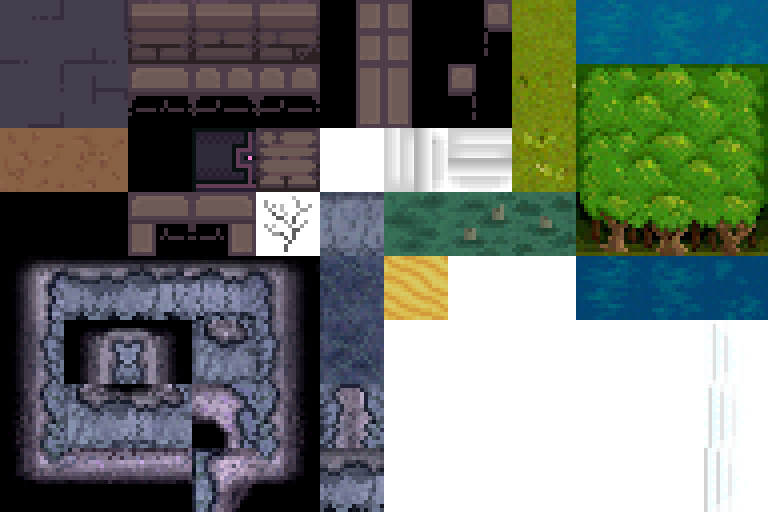
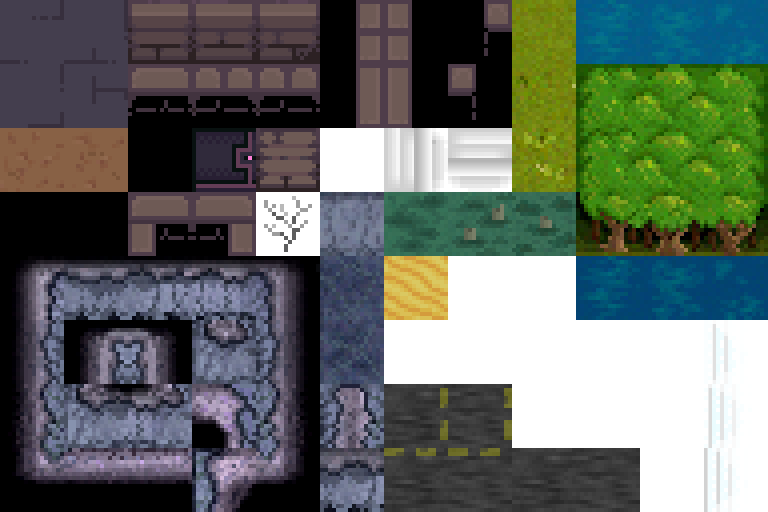
more terrain stuff

Changed region(s): [[0.5, 0.75, 0.8438, 1.0]]

diff --git a/src/main/kotlin/world/gen/biomes/Biome.kt b/src/main/kotlin/world/gen/biomes/Biome.kt
@@ -6,6 +6,7 @@ import things.*
 import util.Dice
 import util.Perlin
 import util.Rect
+import world.gen.NoisePatches
 import world.gen.cartos.WorldCarto
 import world.terrains.Terrain
 import world.terrains.Terrain.Type.*
@@ -20,7 +21,7 @@ sealed class Biome(
     open fun terrainAt(x: Int, y: Int): Terrain.Type = baseTerrain
     open fun postBlendProcess(carto: WorldCarto, dir: Rect) { }
 
-    open fun addPlant(fertility: Float, addThing: (Thing)->Unit, addTerrain: (Terrain.Type)->Unit) { }
+    open fun addPlant(fertility: Float, variance: Float, addThing: (Thing)->Unit, addTerrain: (Terrain.Type)->Unit) { }
 }
 
 @Serializable
@@ -52,11 +53,15 @@ object Plain : Biome(
     Glyph.MAP_PLAIN,
     TERRAIN_GRASS
 ) {
-    val forestMin = 0.7f
+    val forestMin = 0.97f
+    val grassMin = 0f
 
-    override fun addPlant(fertility: Float, addThing: (Thing) -> Unit, addTerrain: (Terrain.Type) -> Unit) {
-        if (fertility > forestMin) {
+    override fun addPlant(fertility: Float, variance: Float,
+                          addThing: (Thing) -> Unit, addTerrain: (Terrain.Type) -> Unit) {
+        if (fertility > forestMin + (variance * 0.03f)) {
             addTerrain(Terrain.Type.TERRAIN_FORESTWALL)
+        } else if (fertility < grassMin + (variance * 0.003f)) {
+            if (Dice.chance(1f - fertility * 800f)) addTerrain(Terrain.Type.TERRAIN_DIRT)
         } else {
             if (Dice.chance(fertility * 0.3f)) {
                 val type = fertility + Dice.float(-0.3f, 0.3f)
@@ -78,17 +83,32 @@ object Forest : Biome(
     Glyph.MAP_FOREST,
     TERRAIN_GRASS
 ) {
+    val forestMin = 0.7f
+    val treeChance = 0.05f
+
     override fun terrainAt(x: Int, y: Int): Terrain.Type {
-        val offset = 0.0
-        val scale = 0.02
-        val fullness = 0.002
-        val n2 = Perlin.noise(x * 0.02, y * 0.03, 8.12) + Perlin.noise(x * 0.041, y * 0.018, 11.17) * 0.8
-        if (n2 > 0.02) return TERRAIN_FORESTWALL
-        val n = Perlin.noise((x.toDouble() + offset) * scale, y.toDouble() * scale, 59.0) + Perlin.noise((x.toDouble() + offset) * scale * 0.4, y.toDouble() * scale * 0.4, 114.0) * 0.7
-        if (n > fullness * scale - Dice.float(0f, 0.18f).toDouble()) {
-            return TERRAIN_GRASS
+        if (NoisePatches.get("extraForest", x, y) > 0.2f) {
+            return Terrain.Type.TERRAIN_FORESTWALL
         }
-        return TERRAIN_DIRT
+        return super.terrainAt(x, y)
+    }
+
+    override fun addPlant(fertility: Float, variance: Float,
+                          addThing: (Thing) -> Unit, addTerrain: (Terrain.Type) -> Unit) {
+        if (fertility > forestMin) {
+            addTerrain(Terrain.Type.TERRAIN_FORESTWALL)
+        } else if (Dice.chance(treeChance)) {
+            addThing(OakTree())
+        } else {
+            if (Dice.chance(fertility * 1f)) {
+                val type = fertility + Dice.float(-0.3f, 0.3f)
+                addThing(
+                    if (type > 0.5f) OakTree()
+                    else if (type > 0.2f) Bush()
+                    else  Bush2()
+                )
+            }
+        }
     }
 
     override fun postBlendProcess(carto: WorldCarto, bounds: Rect) {
@@ -111,7 +131,26 @@ object Mountain : Biome(
     Glyph.MAP_MOUNTAIN,
     TERRAIN_DIRT
 ) {
+    override fun terrainAt(x: Int, y: Int): Terrain.Type {
+        val v = NoisePatches.get("mountainShapes", x, y)
+        if (v > 0.65f) return Terrain.Type.TERRAIN_CAVEWALL
+        else if (v < 0.01f) return Terrain.Type.TERRAIN_SAND
+        else return Terrain.Type.TERRAIN_DIRT
+    }
 
+    override fun postBlendProcess(carto: WorldCarto, bounds: Rect) {
+        for (x in bounds.x0 .. bounds.x1) {
+            for (y in bounds.y0 .. bounds.y1) {
+                val wx = x + carto.chunk.x
+                val wy = y + carto.chunk.y
+                if (carto.getTerrain(wx, wy) == Terrain.Type.TERRAIN_CAVEWALL) {
+                    if (carto.neighborCount(wx,wy, Terrain.Type.TERRAIN_CAVEWALL) < 1) {
+                        carto.setTerrain(wx,wy,TERRAIN_DIRT)
+                    }
+                }
+            }
+        }
+    }
 }
 
 @Serializable

diff --git a/src/main/kotlin/world/gen/ChunkMeta.kt b/src/main/kotlin/world/gen/ChunkMeta.kt
@@ -3,6 +3,7 @@ package world
 import kotlinx.serialization.Serializable
 import render.tilesets.Glyph
 import util.XY
+import world.gen.NoisePatches
 import world.gen.biomes.Biome
 import world.gen.biomes.Blank
 
@@ -20,7 +21,9 @@ class ChunkMeta(
     val riverDirt: Float = 0f,
     val hasLake: Boolean = false,
     val coasts: MutableList<XY> = mutableListOf(),
-    val biome: Biome = Blank
+    val biome: Biome = Blank,
+    val roadExits: MutableList<RoadExit> = mutableListOf(),
+    val variance: Float = 0f
 )
 
 @Serializable
@@ -29,6 +32,12 @@ class RiverExit(
     var edge: XY,
     var width: Int = 4,
     var control: XY
+)
+
+@Serializable
+class RoadExit(
+    var edge: XY,
+    var width: Int = 2
 )
 
 class ChunkScratch(
@@ -49,6 +58,7 @@ class ChunkScratch(
     var heat = -1
     var coasts: MutableList<XY> = mutableListOf()
     var biome: Biome = Blank
+    var roadExits: MutableList<RoadExit> = mutableListOf()
 
     fun toChunkMeta() = ChunkMeta(
         x = x,
@@ -60,6 +70,7 @@ class ChunkScratch(
         riverDirt = riverDirt,
         hasLake = hasLake,
         coasts = coasts,
-        biome = biome
+        biome = biome,
+        variance = NoisePatches.get("metaVariance",x,y).toFloat()
     )
 }

diff --git a/src/main/kotlin/render/tileholders/HighwayTile.kt b/src/main/kotlin/render/tileholders/HighwayTile.kt
@@ -1,0 +1,33 @@
+package render.tileholders
+
+import render.tilesets.Glyph
+import render.tilesets.TileSet
+import world.level.Level
+
+class HighwayTile(
+    set: TileSet
+): TileHolder(set) {
+
+    var isHorizontal = false
+
+    enum class Slot { STRIPED, PLAIN }
+
+    private val variants = HashMap<Slot, ArrayList<Triple<Float, Int, Int>>>()
+
+    fun add(slot: Slot, frequency: Float, tx: Int, ty: Int) {
+        variants[slot]?.also {
+            it.add(Triple(frequency, tx, ty))
+        } ?: run {
+            variants[slot] = ArrayList<Triple<Float, Int, Int>>().apply { add(Triple(frequency, tx, ty)) }
+        }
+    }
+
+    override fun getTextureIndex(level: Level?, x: Int, y: Int): Int {
+        val bucket = when {
+            isHorizontal && (y % 2 == 0) -> Slot.STRIPED
+            !isHorizontal && (x % 2 == 0) -> Slot.STRIPED
+            else -> Slot.PLAIN
+        }
+        return pickIndexFromVariants(level?.getRandom(x,y) ?: 0, variants[bucket]!!)
+    }
+}

diff --git a/src/main/kotlin/world/gen/Metamap.kt b/src/main/kotlin/world/gen/Metamap.kt
@@ -18,7 +18,7 @@ object Metamap {
 
     private val chunkRadius = 100
 
-    private val coroutineContext = newSingleThreadAsyncContext("Metamapper")
+    private val coroutineContext = newSingleThreadAsyncContext("Metamap")
     private val coroutineScope = CoroutineScope(coroutineContext)
 
     var isWorking = false
@@ -351,7 +351,11 @@ object Metamap {
                     } else if (cell.dryness >= (maxDry * 0.6f).toInt()) {
                         cell.biome = Desert
                     } else {
-                        cell.biome = Plain
+                        if (NoisePatches.get("metaForest", x, y) > 0.1f) {
+                            cell.biome = Forest
+                        } else {
+                            cell.biome = Plain
+                        }
                         cell.hasLake = Dice.chance(when (cell.riverExits.size) {
                             0 -> 0.02f
                             1 -> 0.3f

diff --git a/src/main/kotlin/world/terrains/Terrain.kt b/src/main/kotlin/world/terrains/Terrain.kt
@@ -38,6 +38,8 @@ sealed class Terrain(
             Type.TERRAIN_DEEP_WATER -> DeepWater
             Type.GENERIC_WATER -> ScratchWater
             Type.TERRAIN_PORTAL_DOOR -> PortalDoor
+            Type.TERRAIN_HIGHWAY_H -> HighwayH
+            Type.TERRAIN_HIGHWAY_V -> HighwayV
             else -> throw RuntimeException("tried to get(terrainType) for un-instantiatable type $type !")
         }
         fun getTiled(type: Int): Terrain.Type? = when (type) {
@@ -56,6 +58,7 @@ sealed class Terrain(
         GENERIC_WALL,
         GENERIC_FLOOR,
         GENERIC_WATER,
+        GENERIC_HIGHWAY,
         TERRAIN_BRICKWALL,
         TERRAIN_CAVEWALL,
         TERRAIN_FORESTWALL,
@@ -69,6 +72,8 @@ sealed class Terrain(
         TERRAIN_SHALLOW_WATER,
         TERRAIN_DEEP_WATER,
         TERRAIN_PORTAL_DOOR,
+        TERRAIN_HIGHWAY_H,
+        TERRAIN_HIGHWAY_V,
     }
 
     open fun glyph() = this.glyph

diff --git a/src/main/kotlin/render/tilesets/TerrainTileSet.kt b/src/main/kotlin/render/tilesets/TerrainTileSet.kt
@@ -134,4 +134,20 @@ fun TerrainTileSet() =
         })
 
         setTile(Glyph.PORTAL_DOOR, SimpleTile(this, 3, 2))
+
+        setTile(Glyph.HIGHWAY_H, HighwayTile(this).apply {
+            isHorizontal = true
+            add(HighwayTile.Slot.PLAIN, 0.5f, 8, 7)
+            add(HighwayTile.Slot.PLAIN, 0.5f, 9, 7)
+            add(HighwayTile.Slot.STRIPED, 0.5f, 6, 7)
+            add(HighwayTile.Slot.STRIPED, 0.5f, 7, 7)
+        })
+
+        setTile(Glyph.HIGHWAY_V, HighwayTile(this).apply {
+            isHorizontal = false
+            add(HighwayTile.Slot.PLAIN, 0.5f, 8, 7)
+            add(HighwayTile.Slot.PLAIN, 0.5f, 9, 7)
+            add(HighwayTile.Slot.STRIPED, 0.5f, 6, 6)
+            add(HighwayTile.Slot.STRIPED, 0.5f, 7, 6)
+        })
     }

diff --git a/src/main/kotlin/ui/modals/PerlinModal.kt b/src/main/kotlin/ui/modals/PerlinModal.kt
@@ -39,7 +39,7 @@ class PerlinModal : WidgetModal(410, 750, "nOisE LAb"), ContextMenu.ParentModal 
 
         val sliderWidth = width - (padding * 2)
         add(Slider(
-            "A scale", patch.samples.first.scale.toDouble(), 0.0001, 0.04, this, padding, 70, sliderWidth, 35
+            "A scale", patch.samples.first.scale.toDouble(), 0.0001, 0.08, this, padding, 70, sliderWidth, 35
         ) { patch.samples.first.scale = it.toFloat() })
         add(Slider(
             "A octaves", patch.samples.first.octaves.toDouble(), 1.0, 8.0, this, padding, 105, sliderWidth, 35

diff --git a/src/main/kotlin/world/terrains/Floors.kt b/src/main/kotlin/world/terrains/Floors.kt
@@ -152,3 +152,16 @@ object Sand : Floor(Type.TERRAIN_SAND, Glyph.BEACH) {
     override fun moveSpeed(actor: Actor) = 1.3f
     override fun stepSound(actor: Actor) = Speaker.SFX.STEPDIRT
 }
+
+sealed class Highway : Floor(Type.GENERIC_HIGHWAY, Glyph.HIGHWAY_H) {
+    override fun moveSpeed(actor: Actor) = 0.7f
+    override fun stepSound(actor: Actor) = Speaker.SFX.STEPHARD
+}
+
+object HighwayH : Highway() {
+    override fun glyph() = Glyph.HIGHWAY_H
+}
+
+object HighwayV : Highway() {
+    override fun glyph() = Glyph.HIGHWAY_V
+}

diff --git a/src/main/kotlin/world/gen/cartos/WorldCarto.kt b/src/main/kotlin/world/gen/cartos/WorldCarto.kt
@@ -85,7 +85,7 @@ class WorldCarto(
         forEachBiome { x,y,biome ->
             if (isWalkableAt(x,y)) {
                 val fertility = NoisePatches.get("plantsBasic", x, y).toFloat()
-                biome.addPlant(fertility, { addThing(x, y, it) }, { setTerrain(x, y, it) })
+                biome.addPlant(fertility, meta.variance, { addThing(x, y, it) }, { setTerrain(x, y, it) })
             }
         }
     }

diff --git a/src/main/kotlin/render/tilesets/Glyph.kt b/src/main/kotlin/render/tilesets/Glyph.kt
@@ -18,8 +18,10 @@ enum class Glyph {
     SHALLOW_WATER,
     DEEP_WATER,
     PORTAL_DOOR,
-    WALL_DAMAGE,
+    HIGHWAY_V,
+    HIGHWAY_H,
 
+    WALL_DAMAGE,
     CURSOR,
     BOX_BG,
     BOX_BORDER,
